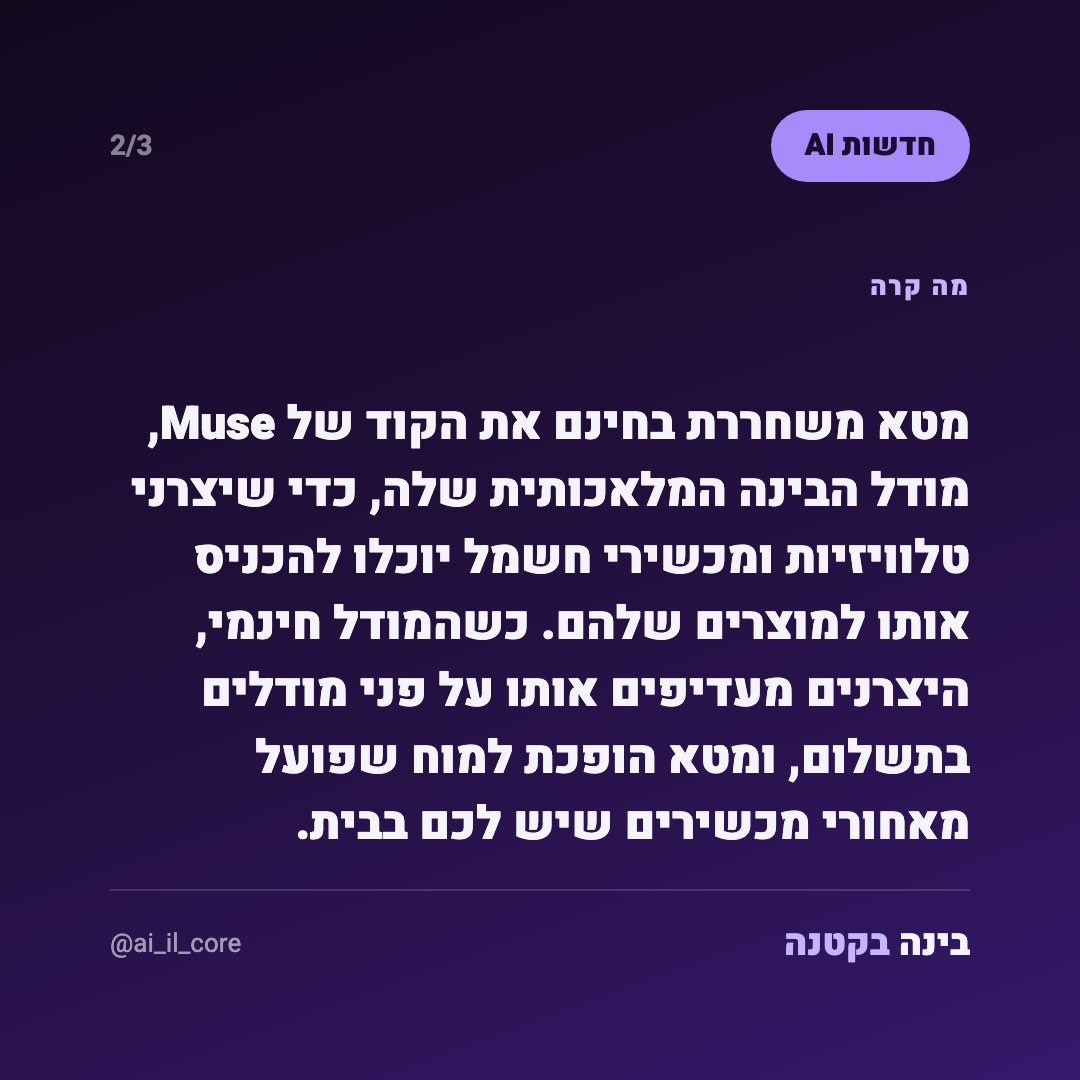
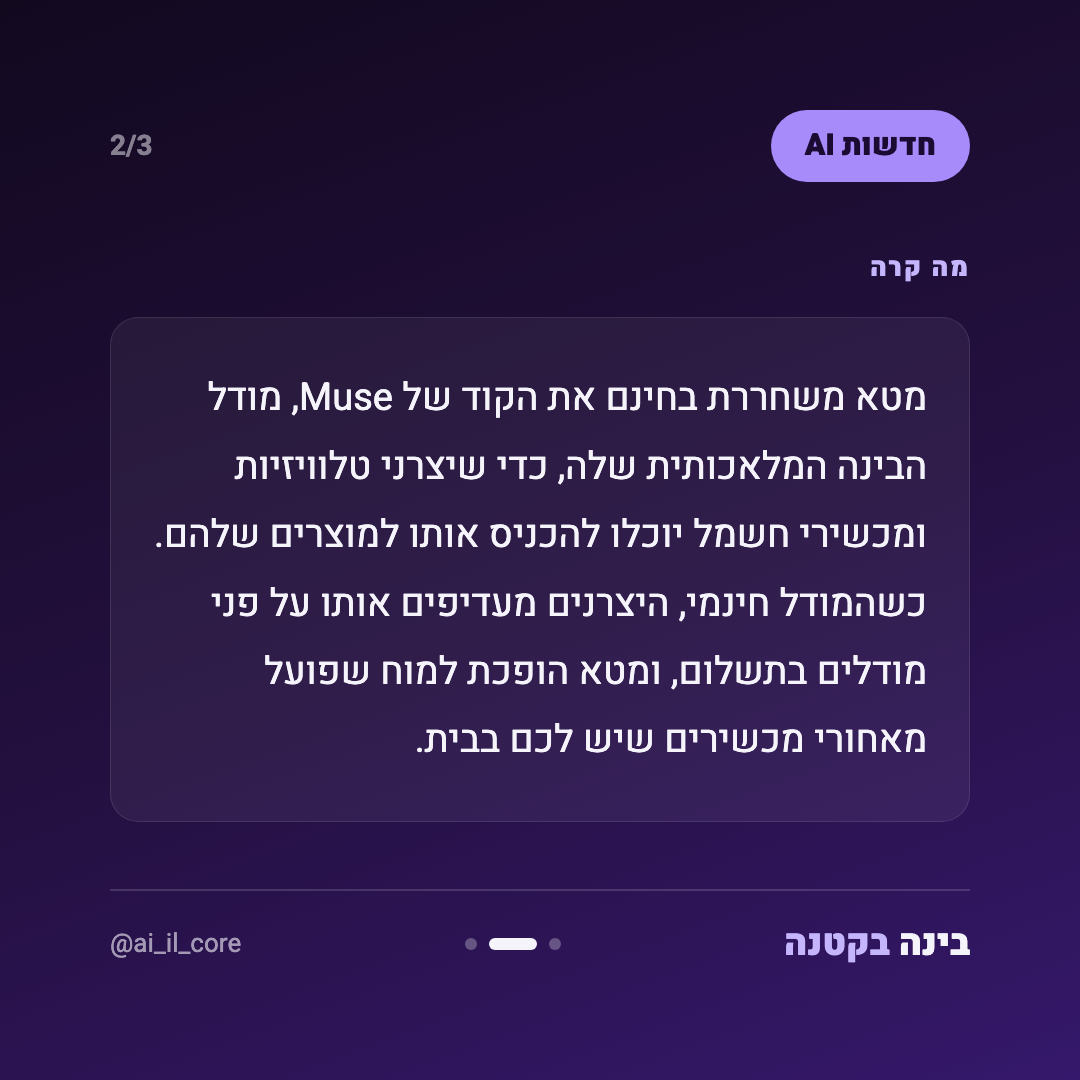
The explain slide gets a panel, and the cards get a rhythm
Ofir, by voice on 4.10.2026: the Hebrew account looks bad. It does, and
the reason is nameable. The explain slide rendered 300 characters with
the .headline class, so weight 900 at 46px filled the card edge to edge
and read as a wall of text rather than as a card. The stock account
solved this on 30.9 with a translucent panel at normal weight, and Ofir
picked the framed version over the frameless one himself. That change
never crossed to this repo, which has been a fork running a month behind
on design.

Three things here, all ported from the same place:

- .lesson: translucent panel, hairline border, weight 400, 1.8 line
  height, with the size tiers retuned downward because the old ones were
  sized for weight-900 text with no box around it and overflow the panel.
- .body: the slide's parts were direct children of the page's
  space-between flex, so the leftover height went into the gaps between
  them and every slide got a different arbitrary rhythm. They are one
  centred column now.
- Progress dots in the footer. "1/3" in the corner is information; the
  dots are a shape, and a carousel that does not look like a carousel
  does not get swiped.

Also adds a rebuild command, which this repo did not have. Its absence
was the reason a design change here only ever reached posts generated
afterwards while the queue went out on the old card. All four queued
slots were rebuilt with it and checked.

Changed region(s): [[0.1222, 0.3361, 0.9167, 0.7944], [0.7944, 0.2444, 0.9167, 0.275], [0.4278, 0.8556, 0.5194, 0.8861]]

diff --git a/generate.py b/generate.py
@@ -877,11 +877,31 @@ _CARD_CSS = """
     padding:14px 34px; border-radius:999px;
   }
   .slide-num { font-size:28px; font-weight:700; opacity:0.5; }
-  .headline { font-size:62px; font-weight:900; line-height:1.45; margin-top:56px; }
+  /* The body is one flex column, not loose siblings of the footer. Until
+     4.10.2026 the slide's parts were direct children of the page's
+     space-between flex, so the browser handed the leftover height to the gaps
+     between them and every slide got a different, arbitrary rhythm: the hook
+     card had a hole in its middle, the explain card had none. Now the page
+     splits top / body / footer and the spacing inside the body is set here. */
+  .body { flex:1; display:flex; flex-direction:column; justify-content:center; min-height:0; }
+  .headline { font-size:62px; font-weight:900; line-height:1.45; }
   .sub { font-size:32px; font-weight:400; line-height:1.7; opacity:0.85; margin-top:28px; }
   .eyebrow {
     font-size:26px; font-weight:900; letter-spacing:2px;
-    color:#c4b5fd; margin-top:56px;
+    color:#c4b5fd; margin-bottom:30px;
+  }
+  /* The explain slide used .headline, so 300 characters came out at weight
+     900 filling the card edge to edge, which is what Ofir was looking at on
+     4.10.2026 when he said the account looks bad. This is the stock account's
+     lesson panel, which he chose over the frameless version on 30.9.2026,
+     ported across: a translucent box, a hairline border, and normal weight so
+     the eye has somewhere to rest. */
+  .lesson {
+    background:rgba(255,255,255,0.055);
+    border:1px solid rgba(255,255,255,0.10);
+    border-radius:28px;
+    padding:46px 42px;
+    font-weight:400; line-height:1.8;
   }
   .source {
     font-size:26px; font-weight:400; line-height:1.6; opacity:0.6;
@@ -891,15 +911,30 @@ _CARD_CSS = """
   .swipe { font-size:28px; font-weight:700; opacity:0.6; margin-top:40px; }
   .accent { color:#c4b5fd; }
   .footer { border-top:2px solid rgba(255,255,255,0.15); padding-top:26px; }
-  .footer-row { display:flex; justify-content:space-between; align-items:center; }
+  .footer-row { display:flex; justify-content:space-between; align-items:center; gap:24px; }
   .brand { font-size:36px; font-weight:900; }
   .handle { font-size:26px; opacity:0.6; }
+  /* A carousel only works if the first card admits it is a carousel. "1/3" in
+     the corner is information; the dots are a shape the eye reads without
+     reading. Laid out LTR deliberately: these are a position indicator rather
+     than text, and Instagram does not mirror its own dots for Hebrew either. */
+  .dots { display:flex; gap:12px; align-items:center; direction:ltr; }
+  .dots span { width:12px; height:12px; border-radius:6px; background:rgba(255,255,255,0.28); }
+  .dots span.on { width:48px; background:#f6f4fb; }
   /* A Latin fragment inside a Hebrew sentence keeps its own direction. */
   .ltr { direction:ltr; unicode-bidi:isolate; display:inline-block; }
 """
 
 
-def _card_shell(top_row_html, body_html):
+def _dots(position, total):
+    """The carousel position as a shape rather than as a number."""
+    return '<div class="dots">' + "".join(
+        f'<span class="{"on" if i == position else ""}"></span>'
+        for i in range(1, total + 1)
+    ) + "</div>"
+
+
+def _card_shell(top_row_html, body_html, dots_html=""):
     return f"""<!DOCTYPE html>
 <html lang="he" dir="rtl">
 <head>
@@ -912,6 +947,7 @@ def _card_shell(top_row_html, body_html):
   <div class="footer">
     <div class="footer-row">
       <div class="brand">בינה <span class="accent">בקטנה</span></div>
+      {dots_html}
       <div class="handle ltr">{HANDLE}</div>
     </div>
   </div>
@@ -935,7 +971,12 @@ def _fit(text, steps):
 
 
 _HOOK_STEPS = [(45, 62), (70, 54), (95, 46), (130, 40)]
-_EXPLAIN_STEPS = [(180, 52), (260, 46), (340, 40), (430, 34)]
+# Retuned 4.10.2026 alongside the panel. These were sized for weight-900 text
+# sitting directly on the background, where a large size was the only thing
+# giving the slide any presence. Inside the panel, at weight 400 with a 1.8
+# line-height, the old sizes overflow the box, so every tier drops and the
+# scale now starts roughly where the old one ended.
+_EXPLAIN_STEPS = [(120, 46), (180, 42), (240, 38), (310, 34), (430, 30)]
 _TAKEAWAY_STEPS = [(60, 52), (90, 46), (130, 40)]
 
 
@@ -960,7 +1001,7 @@ def render_slide_html(kind, position, total, category, copy):
     elif kind == "explain":
         body = (
             f'<div class="eyebrow">{escape(meta["eyebrow"])}</div>'
-            f'<div class="headline" style="font-size:{_fit(copy["explain"], _EXPLAIN_STEPS)}px;">'
+            f'<div class="lesson" style="font-size:{_fit(copy["explain"], _EXPLAIN_STEPS)}px;">'
             f'{escape(copy["explain"])}</div>'
         )
     else:
@@ -973,7 +1014,8 @@ def render_slide_html(kind, position, total, category, copy):
             # carries the frequency promise instead of repeating it.
             '<div class="swipe">פוסט חדש כאן כל יום</div>'
         )
-    return _card_shell(top_row, body)
+    return _card_shell(top_row, f'<div class="body">{body}</div>',
+                       _dots(position, total))
 
 
 def render_png(html_path: pathlib.Path, png_path: pathlib.Path):
@@ -1041,7 +1083,48 @@ def build_slot(slot_dir: pathlib.Path, category, copy, news=None,
     return record
 
 
+def rebuild_slot(slot_dir: pathlib.Path):
+    """Re-render a queued slot's cards from the copy already in source.json.
+
+    Added 4.10.2026, and its absence was a real gap rather than a missing
+    convenience: the stock account has had this since September, so a design
+    change there reaches the posts already queued, while here the same change
+    only affected posts generated afterwards and the queue went out looking
+    like the old card. The words are not touched, only the pixels and the
+    caption, which is a pure function of the stored copy.
+    """
+    source = slot_dir / "source.json"
+    if not source.is_file():
+        raise RuntimeError(f"no source.json in {slot_dir}, nothing to rebuild from")
+    data = json.loads(source.read_text(encoding="utf-8"))
+    category, copy = data["category"], data["copy"]
+
+    with tempfile.TemporaryDirectory() as tmp:
+        tmp = pathlib.Path(tmp)
+        for i, kind in enumerate(SLIDE_PLAN, start=1):
+            html = render_slide_html(kind, i, len(SLIDE_PLAN), category, copy)
+            html_path = tmp / f"slide_{i}.html"
+            html_path.write_text(html, encoding="utf-8")
+            render_png(html_path, slot_dir / f"post_{i}.png")
+
+    (slot_dir / "caption.txt").write_text(
+        make_caption(category, copy), encoding="utf-8")
+    print(f"Rebuilt {slot_dir.name} [{category}]: {len(SLIDE_PLAN)} slides")
+
+
 def main():
+    if len(sys.argv) > 1 and sys.argv[1] == "rebuild":
+        targets = sys.argv[2:] or sorted(
+            str(p) for p in SCHEDULED.iterdir() if p.is_dir())
+        failed = 0
+        for target in targets:
+            try:
+                rebuild_slot(pathlib.Path(target))
+            except Exception as e:
+                print(f"ERROR rebuilding {target}: {e}", file=sys.stderr)
+                failed += 1
+        return 1 if failed else 0
+
     parser = argparse.ArgumentParser()
     parser.add_argument("--dry-run", action="store_true",
                         help="render one post into a temp dir and queue nothing")
